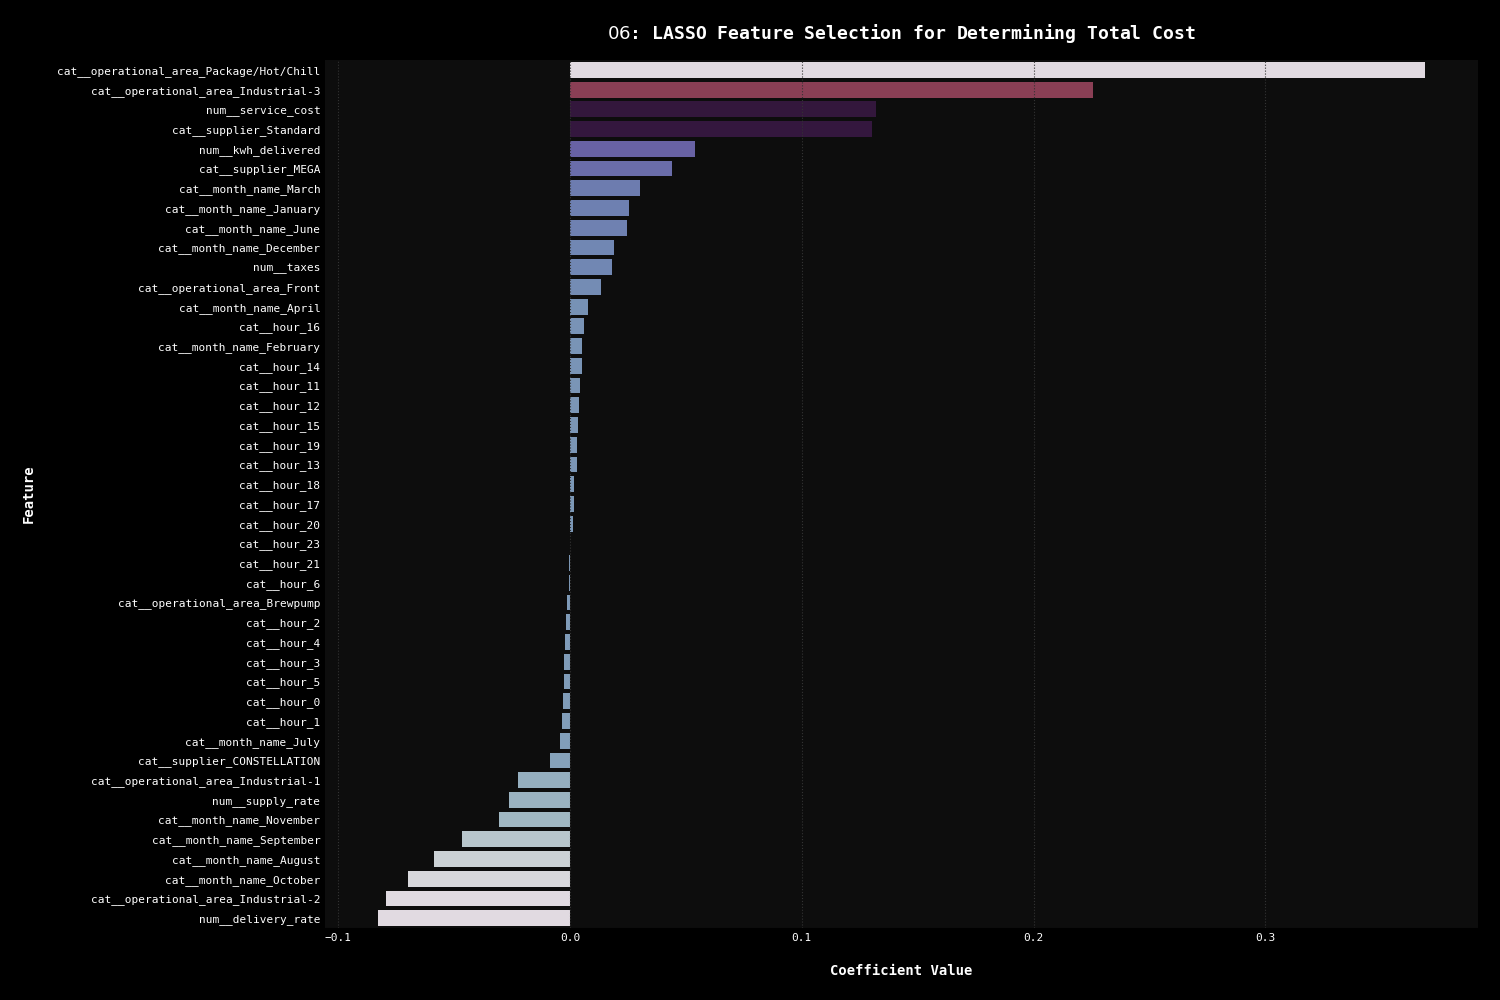
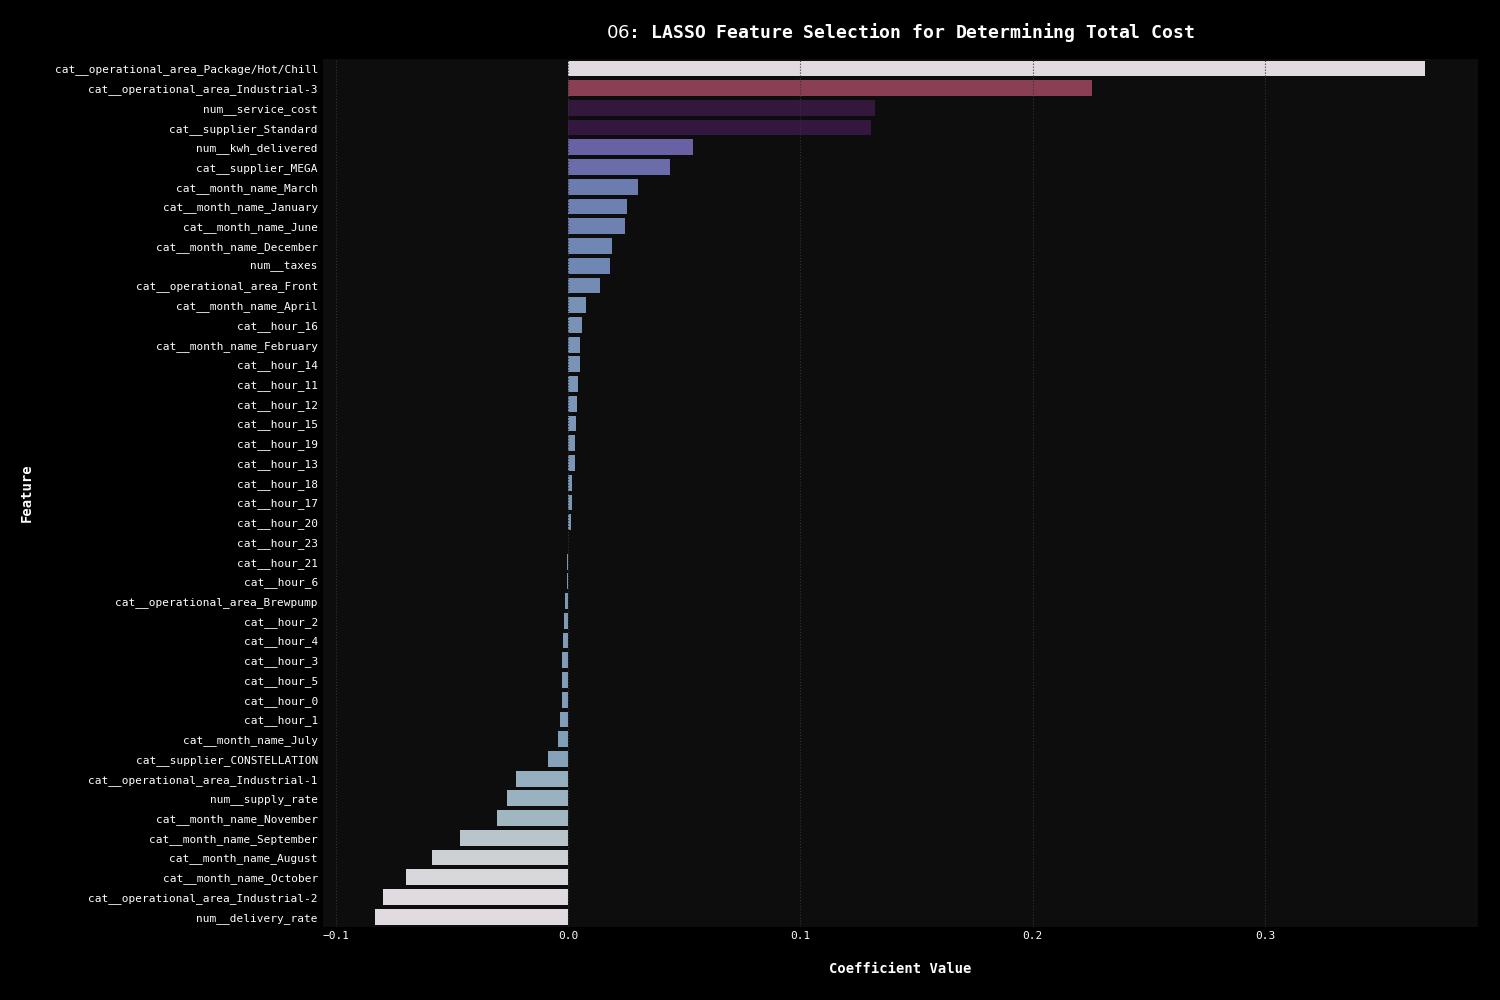
Finished jp06

diff --git a/src/analysis/jp/jp06.py b/src/analysis/jp/jp06.py
@@ -1,0 +1,96 @@
+import matplotlib.pyplot as plt
+import pandas  as pd
+import seaborn as sns
+import re
+
+from analysis.jp.flat          import prepare_data
+from analysis.jp.jp04          import remove_anomalies
+from sklearn.compose           import ColumnTransformer
+from sklearn.feature_selection import SelectFromModel
+from sklearn.linear_model      import LassoCV
+from sklearn.model_selection   import train_test_split
+from sklearn.pipeline          import Pipeline
+from sklearn.preprocessing     import OneHotEncoder, StandardScaler
+from utils.runtime             import find_project_root
+
+def lasso(df: pd.DataFrame):
+    '''
+    Applies LASSO feature selection to determine important features for predicting 'total_cost'.
+
+    Methodology:
+        1. Preprocess the data by dropping irrelevant columns and handling categorical and numerical features.
+        2. Split the data into training and test sets.
+        3. Fit a LASSO model to the training data.
+        4. Visualize the feature importance determined by LASSO.
+
+    Data Science Concepts:
+        • LASSO (Least Absolute Shrinkage and Selection Operator):
+            - A regression analysis method that performs both variable selection and regularization to enhance the 
+              prediction accuracy and interpretability of the resulting statistical model.
+
+    Parameters:
+        df (pd.DataFrame): The dataframe returned from the `remove_anomalies` function.
+
+    Produces:
+        A bar plot saved as a PNG file and displayed on the screen, showing the importance of each feature determined by LASSO.
+    '''
+
+    # 1: Preprocessing the data
+    dff = df.loc[:, ~df.columns.str.contains('id')] \
+            .drop(['billing_interval', 'invoice_number', 'street', 'label', 'source',
+                   'account_number', 'account_number_dm', 'account_number_db',
+                   'kwh', 'period', 'week', 'month', 'quarter', 
+                   'delivery_cost', 'supply_cost', 'tax_cost', 'service_charge'], axis = 1) \
+            .dropna()
+
+    X = dff.drop(['total_cost'], axis=1)
+    y = dff['total_cost']
+
+    # Define features to engineer
+    categorical_features = X.select_dtypes(include = ['object', 'category']).columns.union(['hour'])
+    numeric_features     = X.select_dtypes(include = ['int64', 'float64']).columns
+
+    # 2: Creating a pipeline with preprocessing and LASSO
+    model = Pipeline(steps = [('preprocessor',     ColumnTransformer([('num', StandardScaler(), numeric_features),
+                                                                      ('cat', OneHotEncoder(),  categorical_features)])),
+
+                              ('feature_selector', SelectFromModel(LassoCV(max_iter     = 50000, 
+                                                                           n_jobs       = -1, 
+                                                                           random_state = 0)))])
+
+    # 3: Splitting the data, fitting the model, and selecting features
+    X_train, X_test, y_train, y_test = train_test_split(X, y, random_state=0)
+    model.fit(X_train, y_train)
+
+    # Accessing the fitted LassoCV model, getting its feature names, and applying the SelectFromModel mask
+    lasso_cv        = model.named_steps['feature_selector'].estimator_
+    feature_names   = model.named_steps['preprocessor'].get_feature_names_out()
+    selection_mask  = model.named_steps['feature_selector'].get_support()
+    shortened_names = [re.split('[: ]', name)[0] for name in feature_names[selection_mask]]
+
+    # Creating a Series for easy plotting
+    feature_importance = pd.Series(data  = lasso_cv.coef_[selection_mask], 
+                                   index = shortened_names).sort_values(ascending = False)
+
+    # 4: Barplot visualization
+    sns.barplot(x       = feature_importance, 
+                y       = feature_importance.index, 
+                hue     = feature_importance, 
+                legend  = False,
+                palette = 'twilight')
+
+    plt.xlabel('Coefficient Value')
+    plt.ylabel('Feature')
+    plt.title('$06$: LASSO Feature Selection for Determining Total Cost')
+    plt.tight_layout(pad = 2.0)
+
+    # Saving the plot to a file
+    file_path = find_project_root('./fig/analysis/jp/06 - Feature Selection for Determining Total Cost.png')
+    plt.savefig(file_path)
+    plt.show()
+
+if __name__ == "__main__":
+    
+    df  = prepare_data()
+    dfa = remove_anomalies(df)
+    lasso(dfa)

diff --git a/src/analysis/jp/jp05.py b/src/analysis/jp/jp05.py
@@ -1,13 +1,13 @@
 import matplotlib.pyplot as plt
-import numpy as np
-import pandas as pd
+import numpy   as np
+import pandas  as pd
 import seaborn as sns
 
 from analysis.jp.flat import prepare_data
 from analysis.jp.jp04 import remove_anomalies
 from utils.runtime    import find_project_root
 
-def plot_correlation_heatmap(df: pd.DataFrame):
+def multicollinearity(df: pd.DataFrame):
     '''
     Plots a heatmap of the correlation matrix for numeric columns, focusing on high correlations.
 
@@ -60,4 +60,4 @@ if __name__ == "__main__":
     
     df  = prepare_data()
     dfa = remove_anomalies(df)
-    plot_correlation_heatmap(dfa)
+    multicollinearity(dfa)
